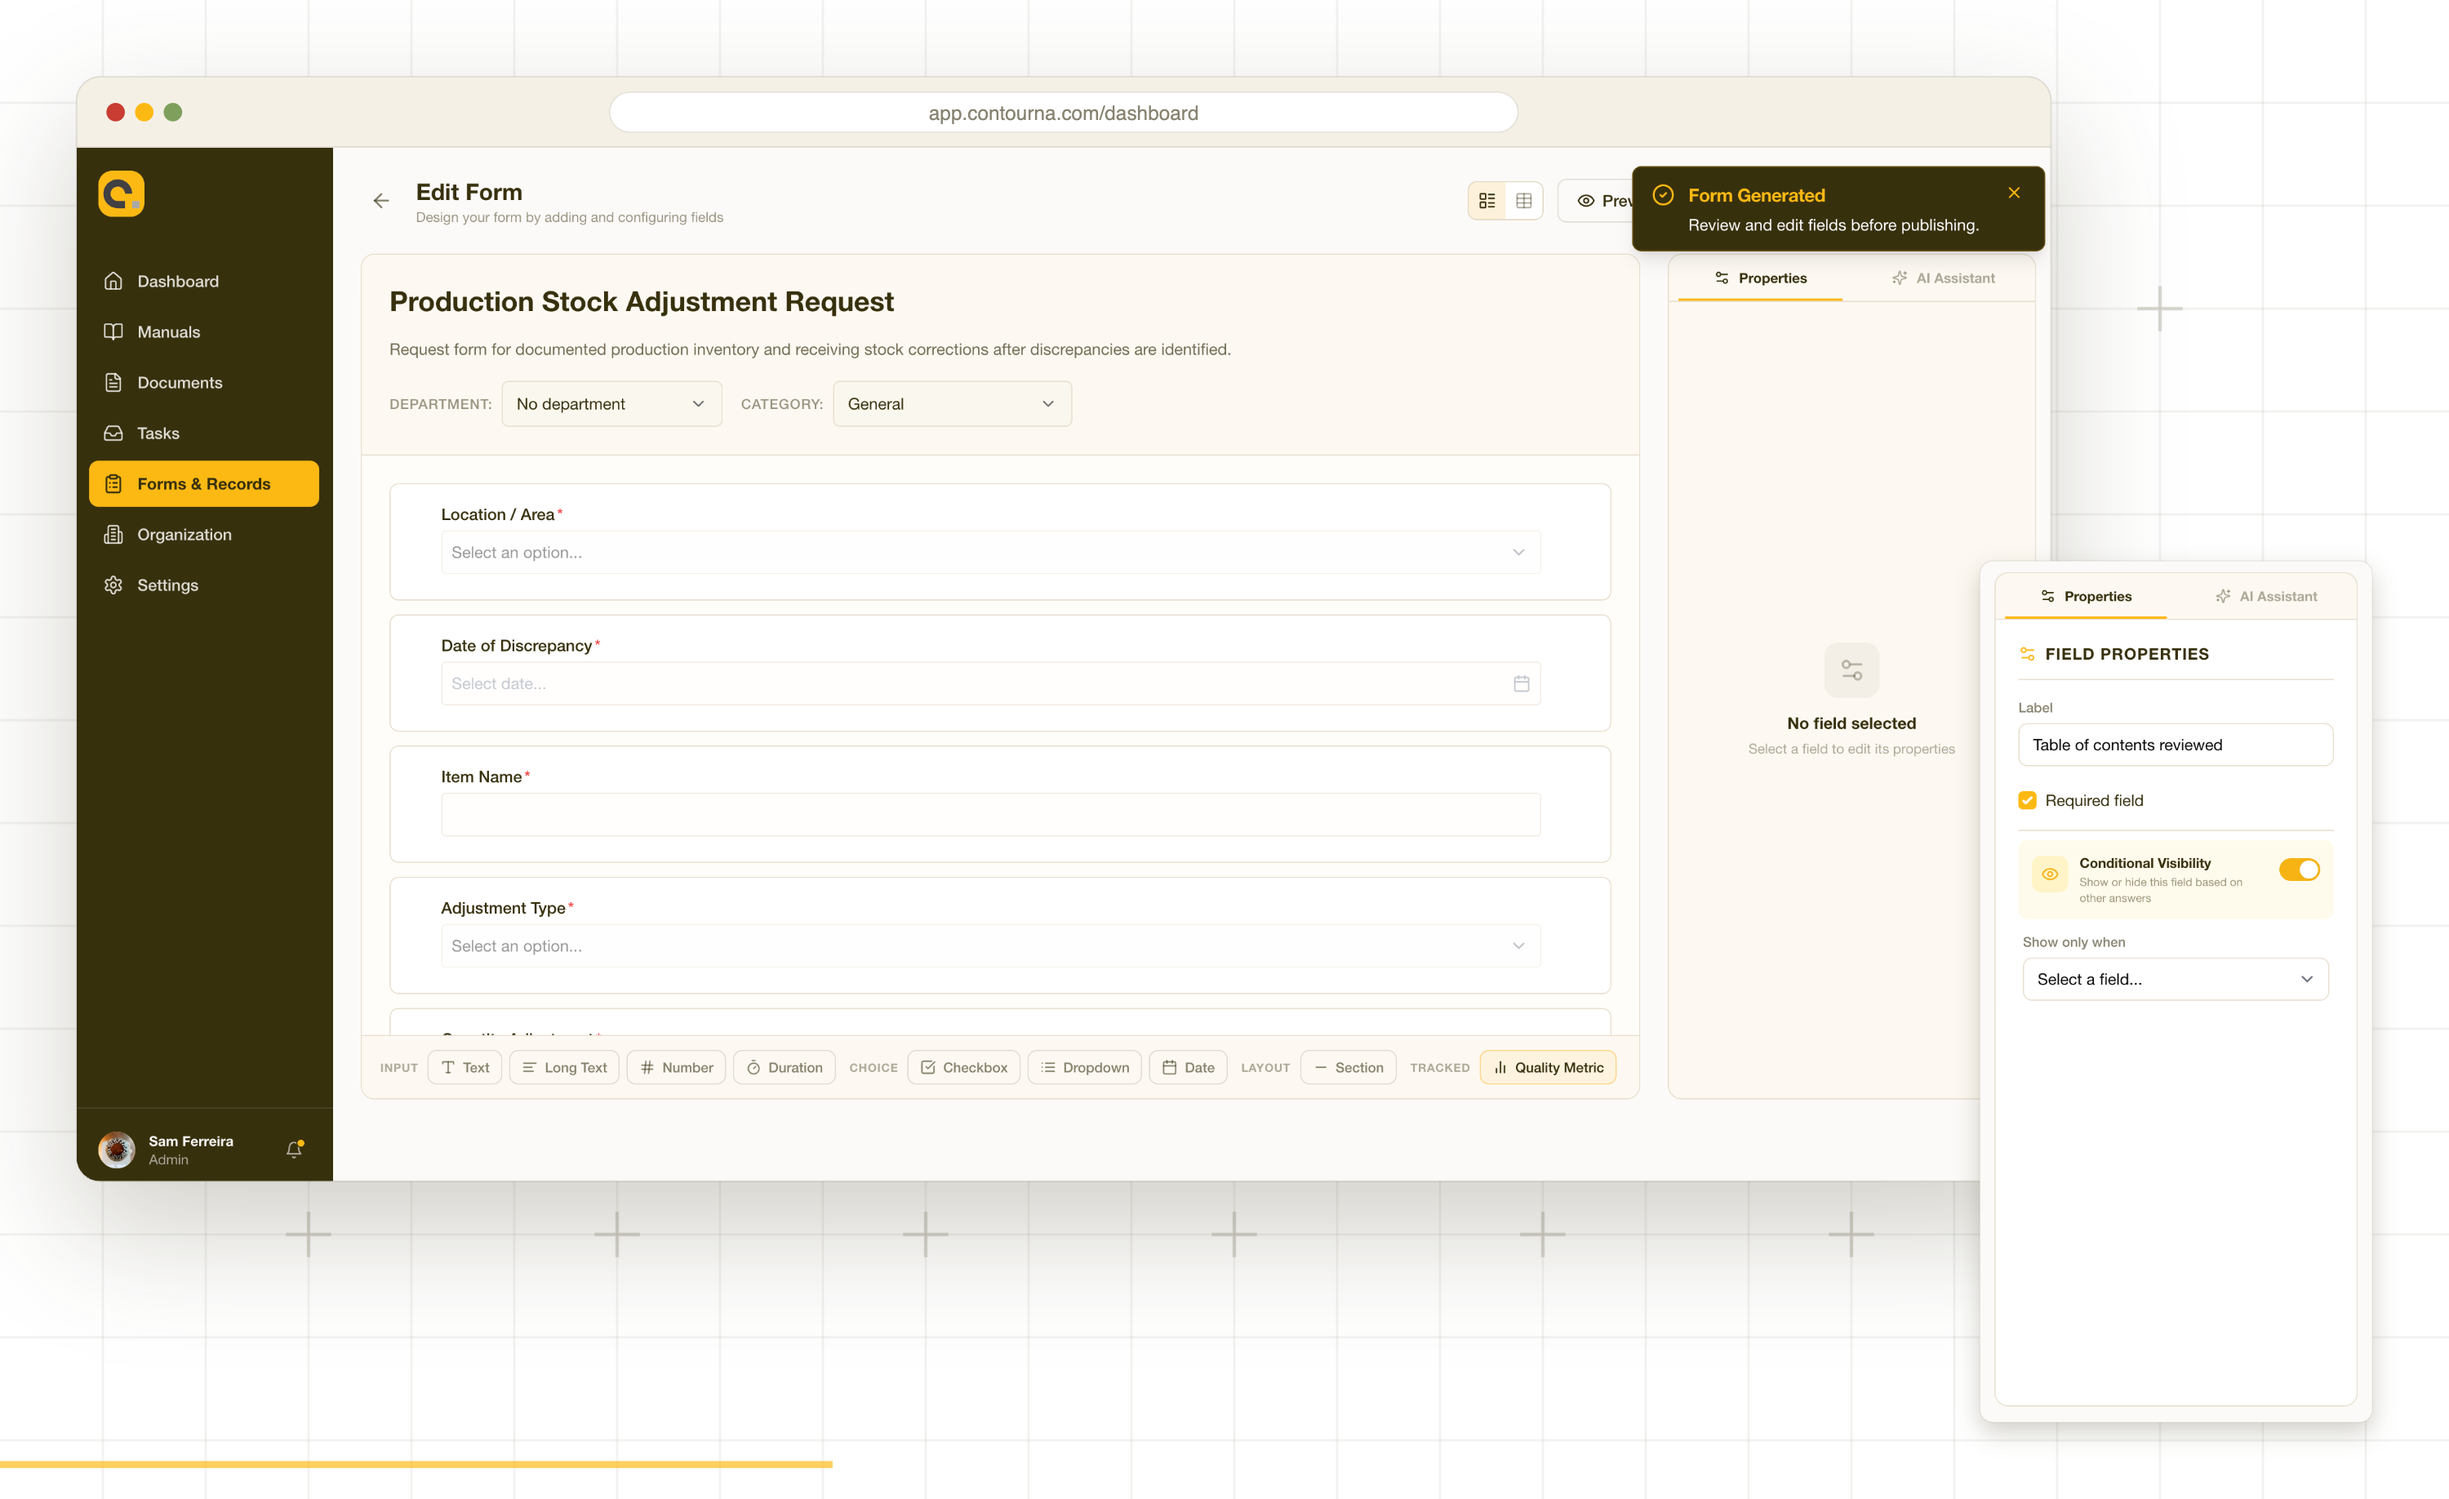
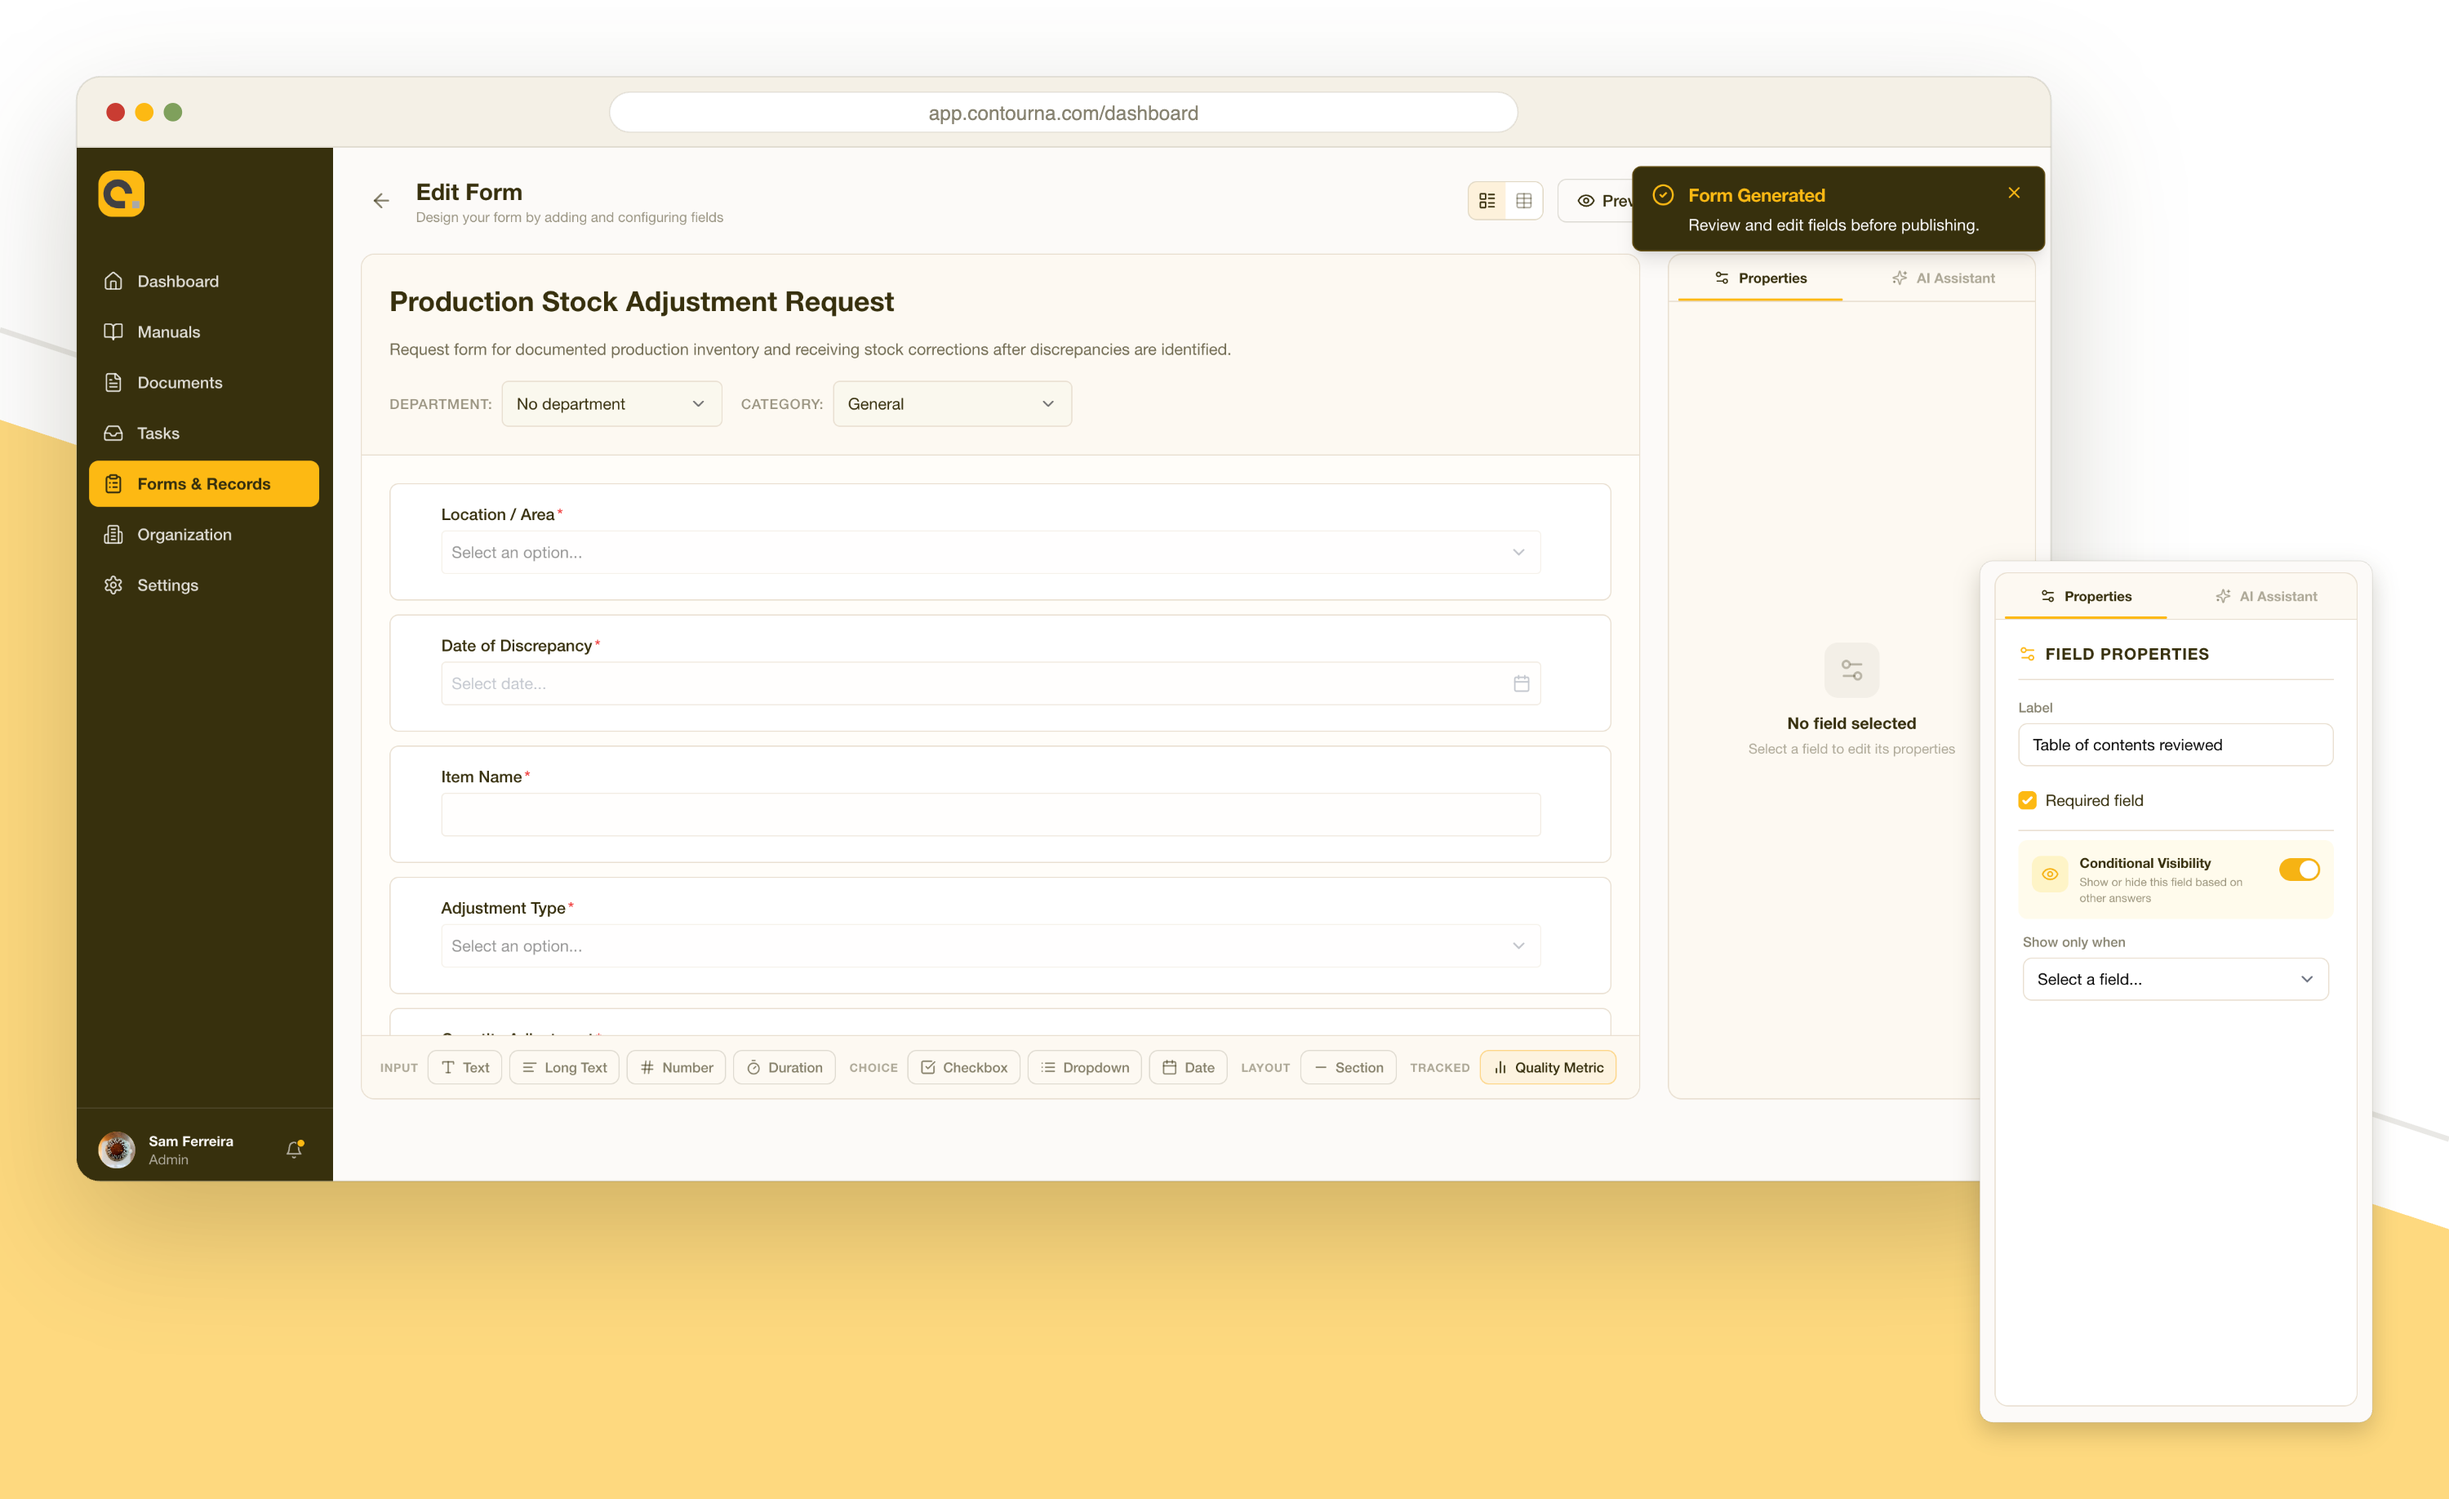
feat: widen the stacked section copy and refresh the form builder mock
Drop the max-w caps on the headings and body copy in Review cycles,
Forms & records, and Quality data so the text fills the container now
that nothing sits beside it.

Changed region(s): [[0.0, 0.2794, 1.0, 1.0]]

diff --git a/src/components/marketing/MarketingHome.tsx b/src/components/marketing/MarketingHome.tsx
@@ -443,10 +443,10 @@ function ReviewCycles() {
       <div className="grid gap-12">
         <div>
           <Eyebrow>Review cycles</Eyebrow>
-          <h2 className="mt-4 max-w-xl text-3xl font-bold leading-tight tracking-tight text-c-ink sm:text-[2.75rem]">
+          <h2 className="mt-4 text-3xl font-bold leading-tight tracking-tight text-c-ink sm:text-[2.75rem]">
             Documents come back for review on their own.
           </h2>
-          <p className="mt-5 max-w-xl text-lg leading-8 text-c-grey-light">
+          <p className="mt-5 text-lg leading-8 text-c-grey-light">
             Set a cadence per document and Contourna queues the next review for
             you. The reviewer opens the revision under review, records findings
             against the section they affect, and closes the cycle with a
@@ -550,10 +550,10 @@ function FormsBand() {
       <div className="relative mx-auto grid max-w-7xl gap-12 px-5 sm:px-8">
         <div>
           <Eyebrow tone="dark">Forms &amp; records</Eyebrow>
-          <h2 className="mt-4 max-w-xl text-3xl font-bold leading-tight tracking-tight text-white sm:text-[2.75rem]">
+          <h2 className="mt-4 text-3xl font-bold leading-tight tracking-tight text-white sm:text-[2.75rem]">
             Describe the record you need. Get a form ready to publish.
           </h2>
-          <p className="mt-5 max-w-lg text-lg leading-8 text-white/70">
+          <p className="mt-5 text-lg leading-8 text-white/70">
             Contourna builds the fields, sections, and tracked quality metrics for
             you. Adjust anything, publish it, then assign it on a schedule so the
             work leaves evidence behind.
@@ -621,10 +621,10 @@ function QualityData() {
       <div className="grid gap-12">
         <div>
           <Eyebrow>Quality data</Eyebrow>
-          <h2 className="mt-4 max-w-xl text-3xl font-bold leading-tight tracking-tight text-c-ink sm:text-[2.75rem]">
+          <h2 className="mt-4 text-3xl font-bold leading-tight tracking-tight text-c-ink sm:text-[2.75rem]">
             Records are not the point. Knowing is the point.
           </h2>
-          <p className="mt-5 max-w-xl text-lg leading-8 text-c-grey-light">
+          <p className="mt-5 text-lg leading-8 text-c-grey-light">
             Mark a form field as a quality metric and every submission feeds a
             control chart. Contourna calculates the limits, checks the standard
             SPC rule sets, and tells you in plain language what the pattern means.
